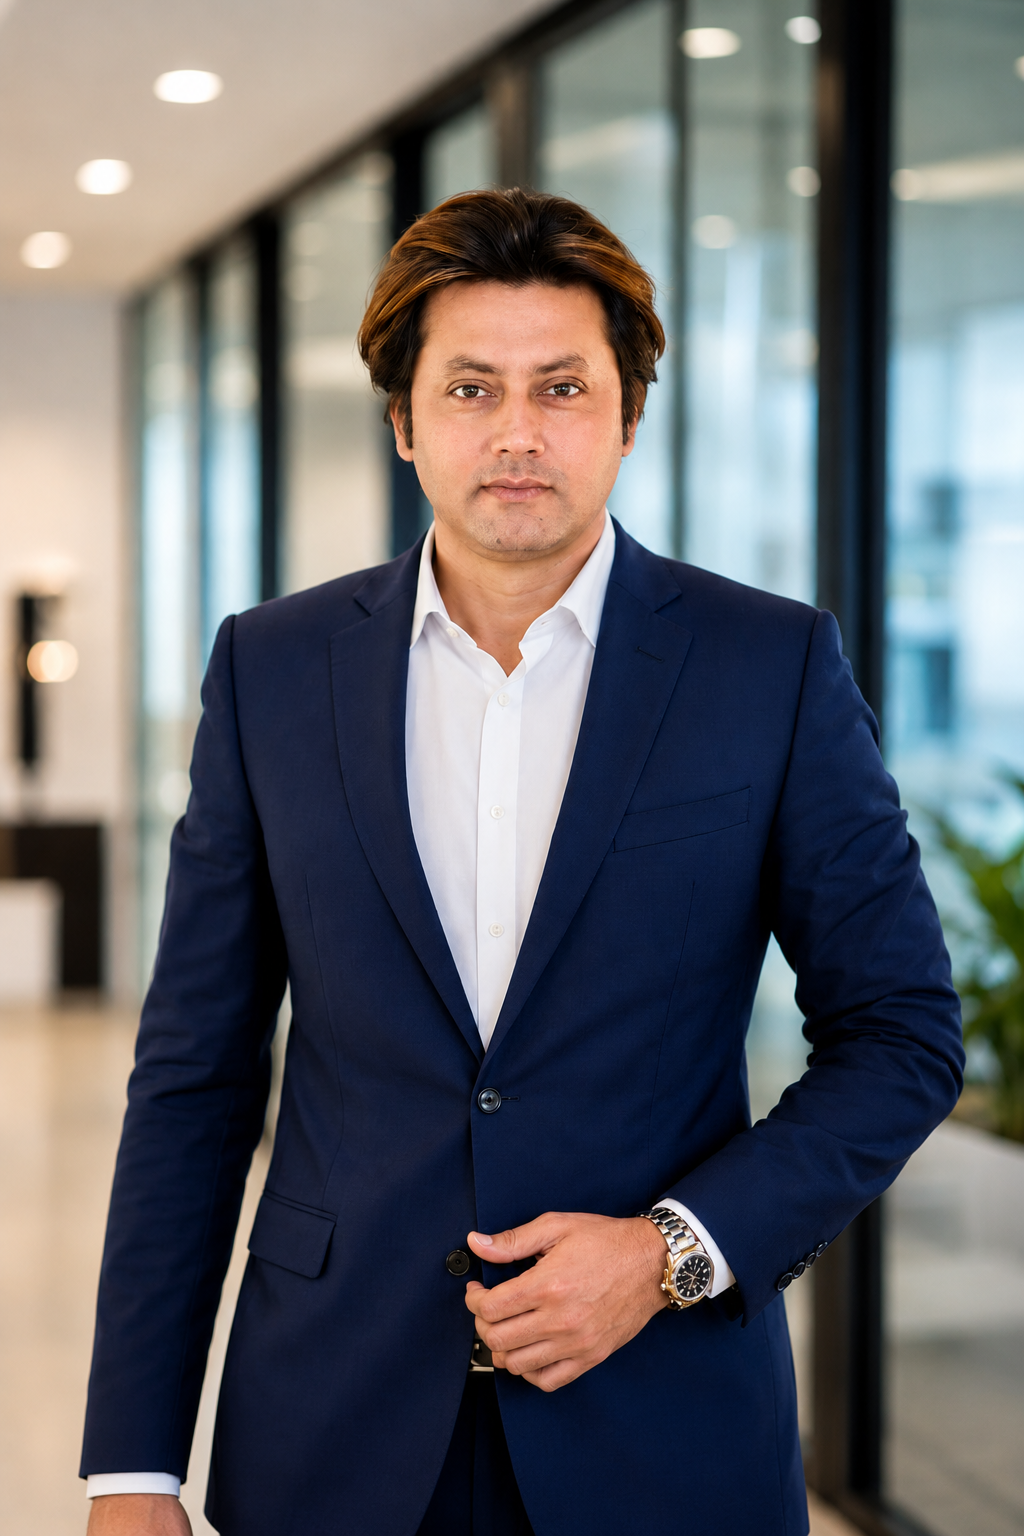
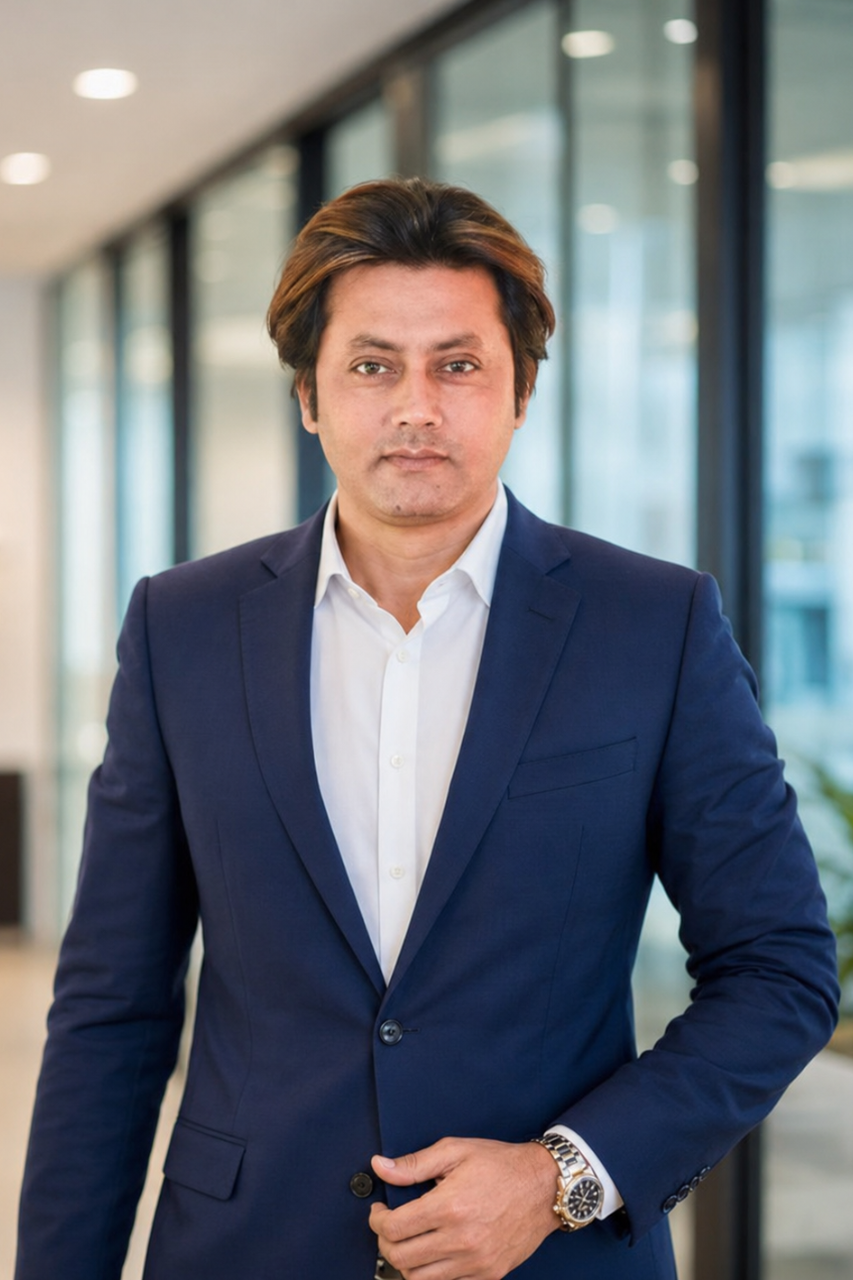
Images Replaced

diff --git a/index.html b/index.html
@@ -341,7 +341,7 @@
           <div class="col-lg-3 col-md-6 d-flex align-items-stretch">
             <div class="member" data-aos="fade-up" data-aos-delay="300">
               <div class="member-img">
-                <img src="assets/img/team/bhaiya 1.JPG" class="img-fluid" alt="Abdul Kareem">
+                <img src="assets/img/team/bhaiya.png" class="img-fluid" alt="Abdul Kareem">
                 <div class="social">
                   <a href="#"><i class="bi bi-twitter"></i></a>
                   <a href="#"><i class="bi bi-facebook"></i></a>
@@ -359,7 +359,7 @@
           <div class="col-lg-3 col-md-6 d-flex align-items-stretch">
             <div class="member" data-aos="fade-up" data-aos-delay="400">
               <div class="member-img">
-                <img src="assets/img/team/mannan.jpeg" class="img-fluid" alt="M A Mannan">
+                <img src="assets/img/team/mannan-new.png" class="img-fluid" alt="M A Mannan">
                 <div class="social">
                   <a href="#"><i class="bi bi-twitter"></i></a>
                   <a href="#"><i class="bi bi-facebook"></i></a>
